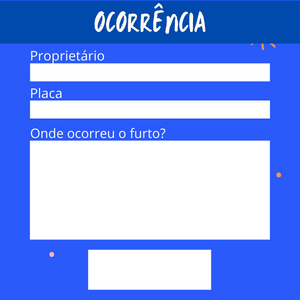
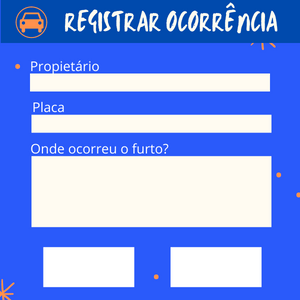
TelasAtual

diff --git a/sist/clickss.py b/sist/clickss.py
@@ -50,30 +50,36 @@ def cadastrar():
 
 
 def registrarOcorrencia():
-    ##
+
     janelaOco = Toplevel()
     janelaOco.title("REGISTRO DE OCORRÊNCIA")
     janelaOco["bg"] = "#00008B"
     janelaOco.geometry("300x300+200+200")
     ##importando as imagens
     imgfundo = PhotoImage(file="OCORRENCIA.png")
-    imgbuttonregist = PhotoImage(file="REGISTRAR.png")
+    imgbuttonregist = PhotoImage(file="REGISTRAR1.png")
+    imgbuttonvoltar= PhotoImage(file="VOLTAR1.png")
 
 
     labFundo = Label(janelaOco, image=imgfundo)
     labFundo.pack()
 
     caixaProp = Entry(janelaOco, bd=2, justify=CENTER)
-    caixaProp.place(width=240, height=18, x=30, y=63)
+    caixaProp.place(width=240, height=18, x=30, y=74)
 
     caixaModelo = Entry(janelaOco, bd=2, justify=CENTER)
-    caixaModelo.place(width=240, height=18, x=30, y=100)
+    caixaModelo.place(width=240, height=18, x=30, y=115)
 
     caixaLugar = Entry(janelaOco, bd=2, justify=CENTER)
-    caixaLugar.place(width=240, height=99, x=30, y=141)
+    caixaLugar.place(width=240, height=79, x=31, y=158)
+
+    btnVoltar = Button(janelaOco, image=imgbuttonvoltar, width=15, command=voltar)
+    btnVoltar.place(width=91, height=40, x=44, y=247)
 
     btnRegistrar = Button(janelaOco, image=imgbuttonregist, width=15,command=registrar)
-    btnRegistrar.place(width=122, height=40, x=88, y=250)
+    btnRegistrar.place(width=91, height=40, x=170, y=247)
+
+
 
     janelaOco.mainloop()
 

diff --git a/sist/__init__.py b/sist/__init__.py
@@ -1,8 +1,6 @@
 from tkinter import*
 from sist.clickss import *
 
-
-
 def interfacePrincipal():
 
     janela=Tk()
